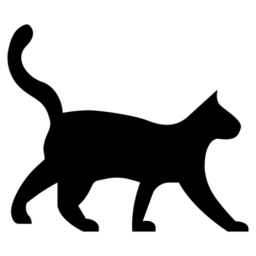
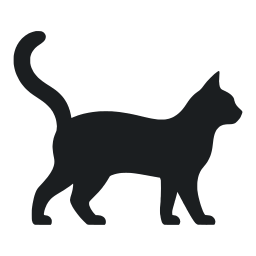
Regenerate Amy OS branding with an original side-profile cat (#210)
* Replace the downloaded cat with an original Amy OS identity

* Use a walking side-profile cat across the Amy OS artwork

* Simplify branding to a smooth monochrome cat silhouette

* Use the standing side-profile cat as the Amy OS mark

diff --git a/branding/README.md b/branding/README.md
@@ -1,0 +1,15 @@
+# Artwork
+
+`mark.svg` is the original Amy OS cat, vectorized from a concept created
+with the built-in imagegen tool. `./branding/render.sh` rebuilds every PNG and
+the Debian boot-menu SVG; it needs librsvg and Python 3.
+
+Concept brief: “An original standing cat in side profile, facing right, with
+a raised tail, natural proportions and a smooth, solid silhouette. No lettering
+or interior detail.”
+
+The artwork is monochrome: no wordmark, colored tile or decorative line.
+
+The same geometry supplies the black and white README marks, desktop and
+installer icons, welcome graphic and boot splash. The old downloaded cat is
+replaced throughout.
